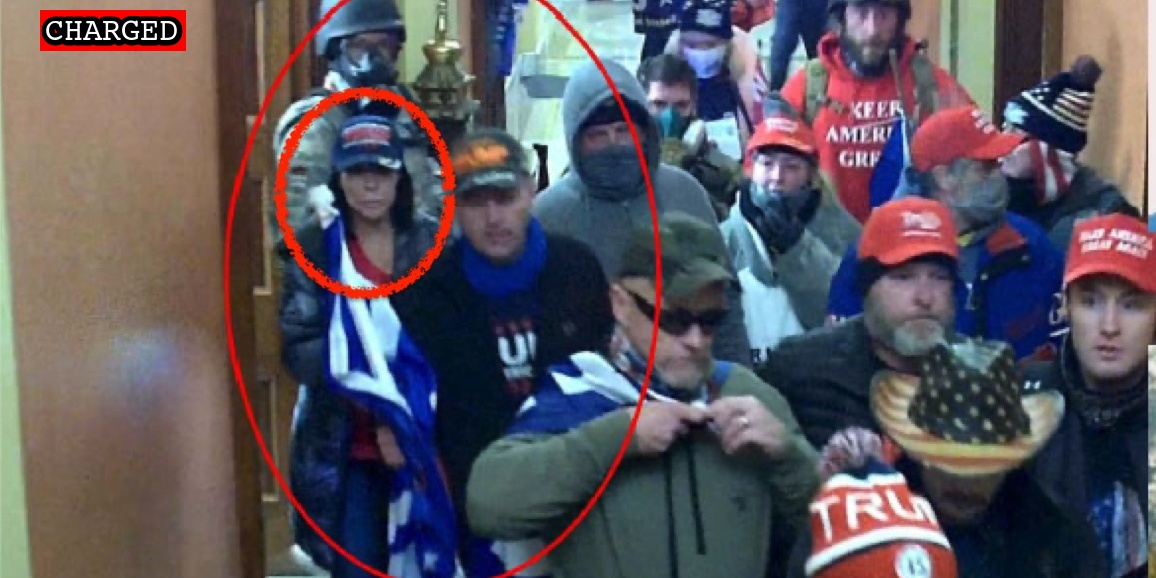
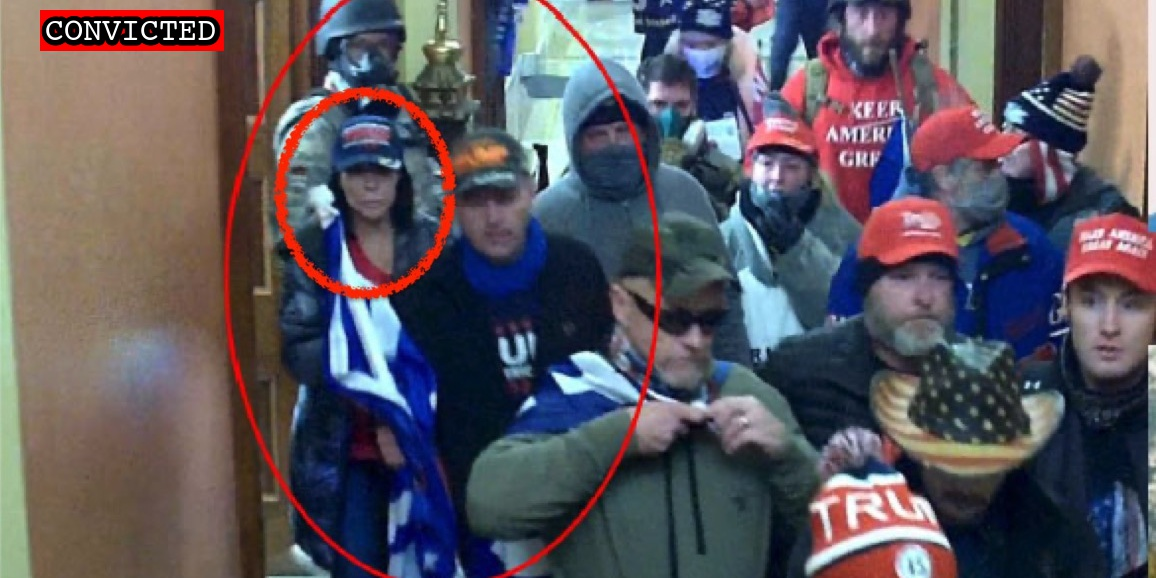
Latest import

Changed region(s): [[0.0311, 0.0, 0.218, 0.0934]]

diff --git a/docs/_suspects/carol-kicinski.md b/docs/_suspects/carol-kicinski.md
@@ -4,16 +4,16 @@ lastName: Kicinski
 hashtag:
 aka:
 residence: Florida
-status: Charged
+status: Convicted
 date: 2022-02-22
 charged: 2022-02-22
 indicted:
-convicted:
+convicted: 2022-11-08
 acquitted:
 sentenced:
 dismissed:
 deceased:
-plea_hearing:
+plea_hearing: 2022-11-08
 trial_date:
 trial_type:
 sentencing:
@@ -31,7 +31,7 @@ raid:
 perpwalk:
 quote:
 title: Carol Kicinski charged on February 22nd, 2022
-description: Click for latest case details. Suspects innocent until proven guilty.
+description: Convicted on November 1, 2022. Click for latest case details.
 author: seditiontrack
 layout: suspect
 published: true
@@ -40,9 +40,16 @@ caseName: USA v. HENEGHAN
 judge: Reggie B. Walton
 videos:
 charges:
+  - code: 18 USC § 1752(a)(1)
+    title: Entering a restricted building or grounds
+    url: https://www.law.cornell.edu/uscode/text/18/1752
+    felony: false
 sentence:
 ---
+
 - [News Report](https://www.msn.com/en-us/news/world/tv-chef-carol-kicinski-charged-with-entering-capitol-during-jan-6-riots/ar-AAUdYVp)
 - [Complaint](https://www.justice.gov/usao-dc/case-multi-defendant/file/1476351/download)
 - [Statement of Facts](https://www.justice.gov/usao-dc/case-multi-defendant/file/1476356/download)
-- [Information](https://extremism.gwu.edu/sites/g/files/zaxdzs2191/f/Jon%20Heneghan%20and%20Carol%20Kicinski%20Information.pdf)
+- [Information](https://www.justice.gov/usao-dc/case-multi-defendant/file/1551181/download)
+- [Plea Agreement](https://www.justice.gov/usao-dc/case-multi-defendant/file/1551186/download)
+- [Statement of Offense](https://www.justice.gov/usao-dc/case-multi-defendant/file/1551191/download)

diff --git a/docs/_suspects/derek-sulenta.md b/docs/_suspects/derek-sulenta.md
@@ -4,16 +4,16 @@ lastName: Sulenta
 hashtag:
 aka:
 residence: California
-status: Charged
+status: Convicted
 date: 2022-06-06
 charged: 2022-06-06
 indicted:
-convicted:
+convicted: 2022-11-08
 acquitted:
 sentenced:
 dismissed:
 deceased:
-plea_hearing:
+plea_hearing: 2022-11-08
 trial_date:
 trial_type:
 sentencing:
@@ -31,17 +31,24 @@ raid:
 perpwalk:
 quote: "Inside the capital building. This is wild!"
 title: Derek Sulenta charged on June 6th, 2022
-description: Click for latest case details. Suspects innocent until proven guilty.
+description: Convicted on November 1, 2022. Click for latest case details.
 author: seditiontrack
 layout: suspect
 published: true
-caseNumber: 22-mj-0129
+caseNumber: 22-cr-0340
 caseName:
 judge:
 videos:
 charges:
+- code: 40 USC § 5104(e)(2)(G)
+  title: Parading, demonstrating or picketing in a Capitol building
+  url: https://www.law.cornell.edu/uscode/text/40/5104
+  felony: false
 sentence:
 ---
 - [News Report](https://www.msn.com/en-us/news/politics/doj-says-man-arrested-in-long-beach-bragged-dude-we-breached-the-capital/ar-AA10mJsN)
 - [Complaint](https://www.justice.gov/usao-dc/case-multi-defendant/file/1524366/download)
 - [Statement of Facts](https://www.justice.gov/usao-dc/case-multi-defendant/file/1524371/download)
+- [Information](https://www.justice.gov/usao-dc/case-multi-defendant/file/1550776/download)
+- [Plea Agreement](https://www.justice.gov/usao-dc/case-multi-defendant/file/1550766/download)
+- [Statement of Offense](https://www.justice.gov/usao-dc/case-multi-defendant/file/1550771/download)

diff --git a/docs/_suspects/jon-heneghan.md b/docs/_suspects/jon-heneghan.md
@@ -4,11 +4,11 @@ lastName: Heneghan
 hashtag:
 aka:
 residence: Florida
-status: Charged
+status: Convicted
 date: 2022-02-22
 charged: 2022-02-22
 indicted:
-convicted:
+convicted: 2022-11-08
 acquitted:
 sentenced:
 dismissed:
@@ -31,7 +31,7 @@ raid:
 perpwalk:
 quote:
 title: Jon Heneghan charged on February 22nd, 2022
-description: Click for latest case details. Suspects innocent until proven guilty.
+description: Convicted on November 1, 2022. Click for latest case details.
 author: seditiontrack
 layout: suspect
 published: true
@@ -40,9 +40,16 @@ caseName: USA v. HENEGHAN
 judge: Reggie B. Walton
 videos:
 charges:
+  - code: 18 USC § 1752(a)(1)
+    title: Entering a restricted building or grounds
+    url: https://www.law.cornell.edu/uscode/text/18/1752
+    felony: false
 sentence:
 ---
+
 - [News Report](https://www.sun-sentinel.com/news/florida/fl-ne-ap-tv-chef-jan-6-20220224-2g3ifto3y5dzbgyyzeobjuze5m-story.html)
 - [Complaint](https://www.justice.gov/usao-dc/case-multi-defendant/file/1476341/download)
 - [Statement of Facts](https://www.justice.gov/usao-dc/case-multi-defendant/file/1476346/download)
-- [Information](https://extremism.gwu.edu/sites/g/files/zaxdzs2191/f/Jon%20Heneghan%20and%20Carol%20Kicinski%20Information.pdf)
+- [Information](https://www.justice.gov/usao-dc/case-multi-defendant/file/1551161/download)
+- [Plea Agreement](https://www.justice.gov/usao-dc/case-multi-defendant/file/1551151/download)
+- [Statement of Offense](https://www.justice.gov/usao-dc/case-multi-defendant/file/1551156/download)

diff --git a/docs/_suspects/brian-gundersen.md b/docs/_suspects/brian-gundersen.md
@@ -7,15 +7,15 @@ residence: New York
 status: Indicted
 date: 2021-01-27
 charged: 2021-01-27
-indicted: 2021-03-05
-convicted: 
+indicted: 2021-05-26
+convicted:
 acquitted:
-sentenced: 
-dismissed: 
+sentenced:
+dismissed:
 deceased:
 plea_hearing:
 trial_date: 2022-11-09
-trial_type: Bench Trial
+trial_type: Stipulated Bench Trial
 sentencing:
 status_conference: 2022-08-31
 age: 26
@@ -29,7 +29,7 @@ courtroom:
 courthouse:
 raid:
 perpwalk:
-quote: 'We all stormed the us capital [sic] and tried to take over the government'
+quote: "We all stormed the us capital [sic] and tried to take over the government"
 title: Brian Gundersen charged on January 27th, 2021
 description: Click for latest case details. Suspects innocent until proven guilty.
 author: seditiontrack
@@ -42,8 +42,9 @@ videos:
 charges:
 sentence:
 ---
+
 - [News Report](https://www.huffpost.com/entry/high-school-varsity-jacket-us-capitol-riot_n_600f365ac5b634dc37378746?63x8)
 - [Complaint](https://www.justice.gov/opa/page/file/1361271/download)
-- [Statement of Facts](https://www.justice.gov/opa/page/file/1361271/download)
-- [Indictment](https://www.justice.gov/usao-dc/case-multi-defendant/file/1409511/download)
+- [Statement of Facts](https://www.justice.gov/usao-dc/case-multi-defendant/file/1550941/download)
+- [Indictment](https://www.justice.gov/usao-dc/case-multi-defendant/file/1550946/download)
 - [Information](https://www.justice.gov/usao-dc/case-multi-defendant/file/1377726/download)
